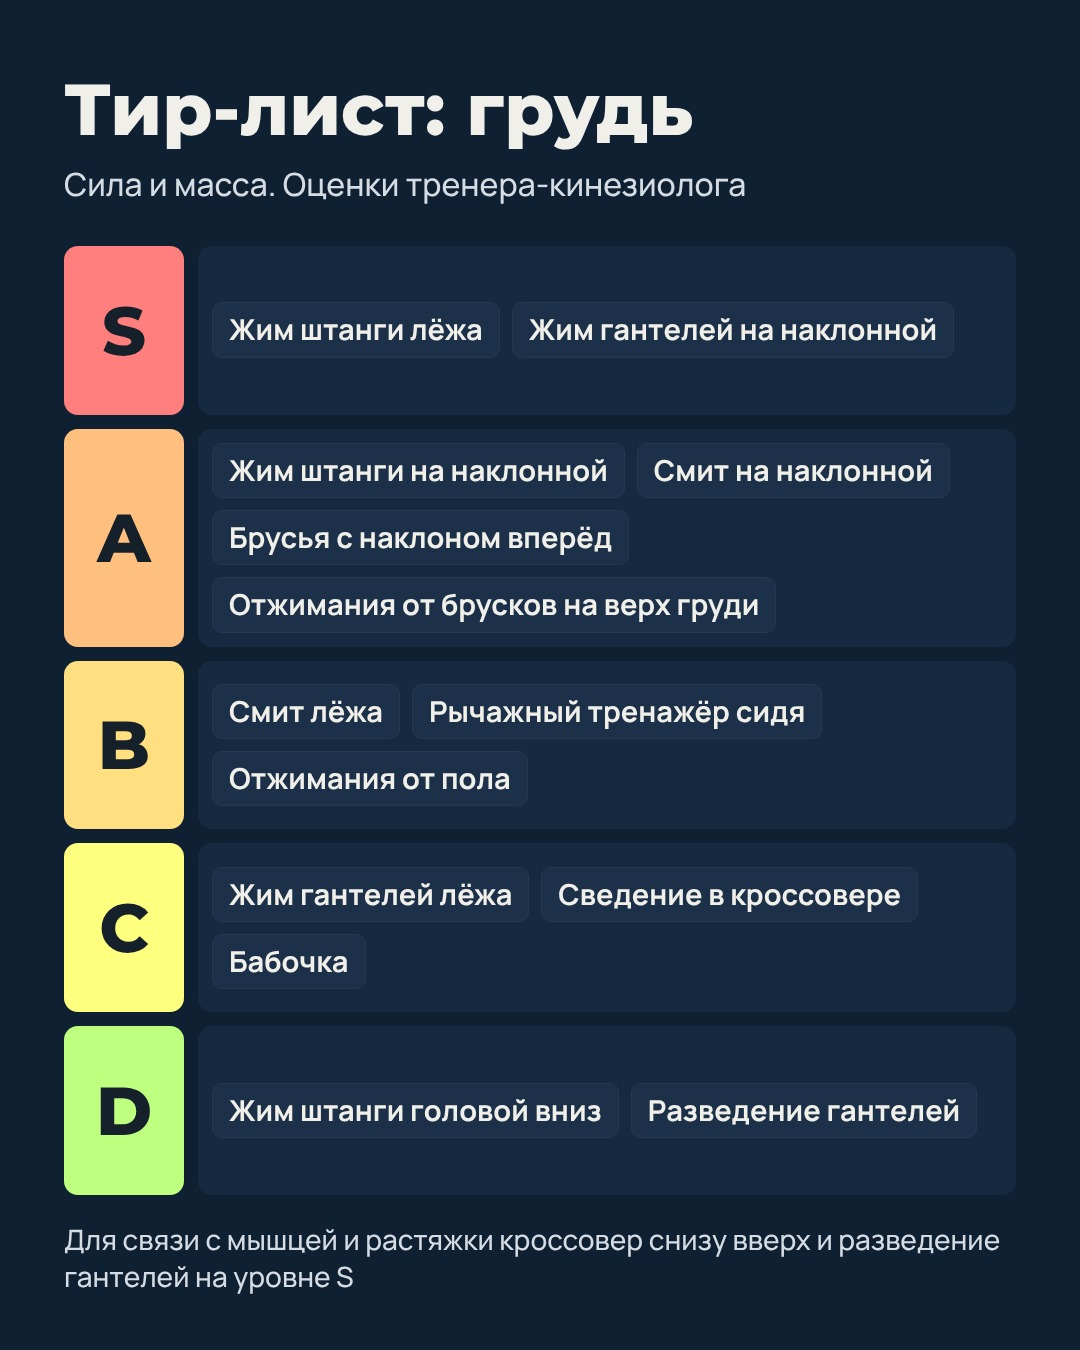
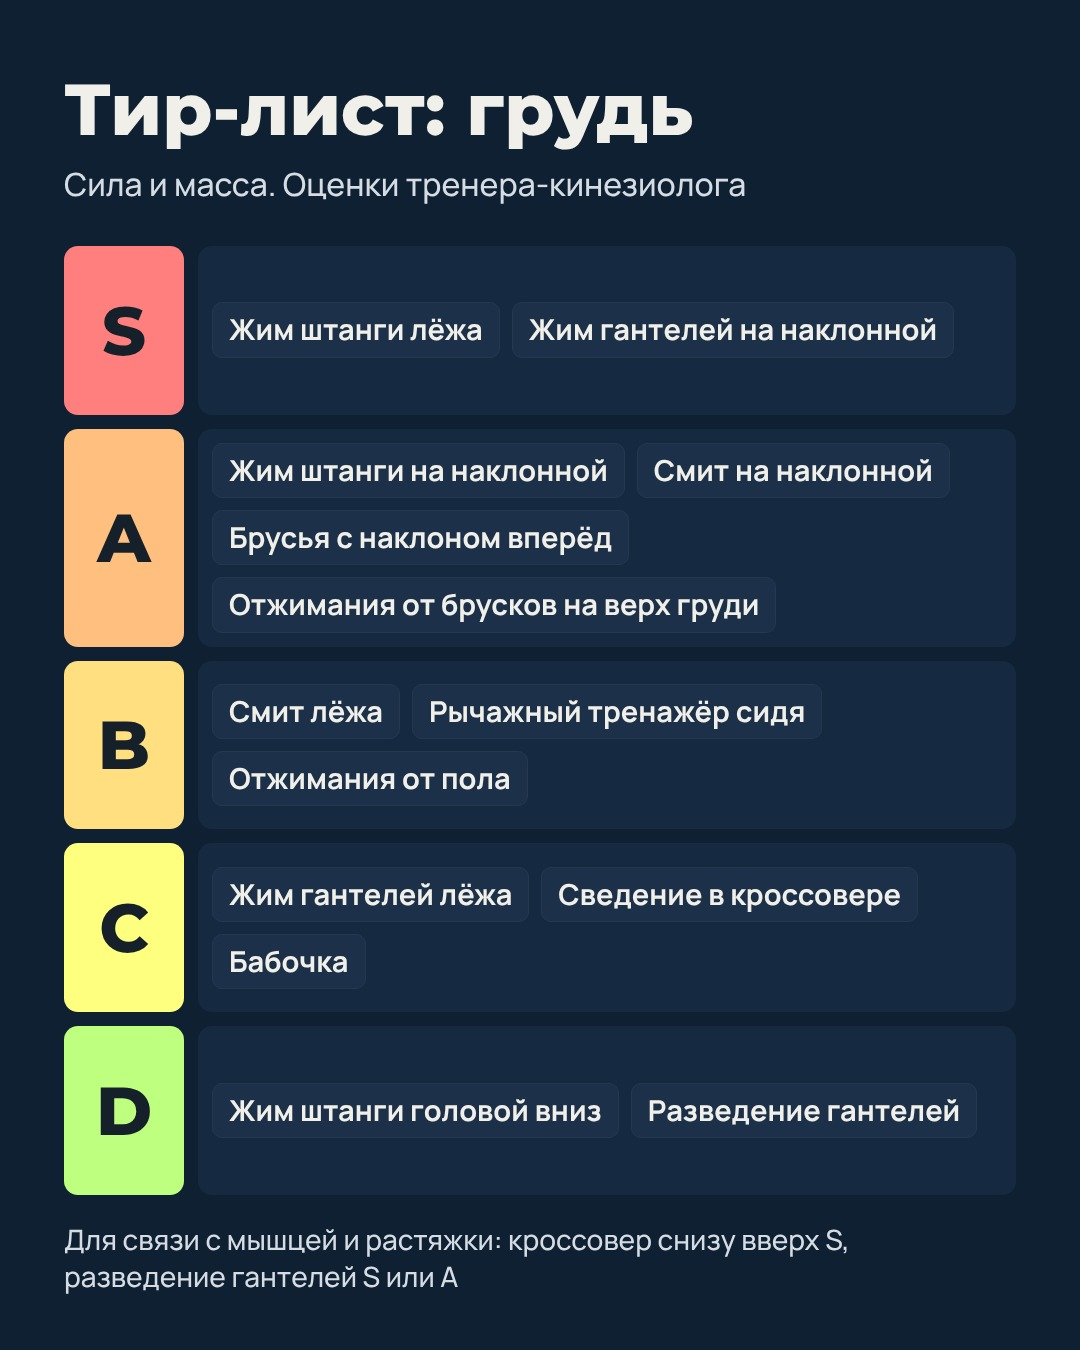
TG: тир-лист по замечаниям контролёра (S или A, причины C, полный список в комментарий)
Claude-Session: https://claude.ai/code/session_014b6iEBjPGyacsH4fnBbVwQ

Changed region(s): [[0.4583, 0.9022, 0.9167, 0.9333], [0.0611, 0.9333, 0.4278, 0.9644]]

diff --git a/content/tg/charts/04_tierlist_grud.html b/content/tg/charts/04_tierlist_grud.html
@@ -22,5 +22,5 @@ h1{font-family:Montserrat,sans-serif;font-weight:800;font-size:72px;line-height:
 <div class="row"><div class="lab" style="background:#ffff7f">C</div><div class="items"><span class="it">Жим гантелей лёжа</span><span class="it">Сведение в кроссовере</span><span class="it">Бабочка</span></div></div>
 <div class="row"><div class="lab" style="background:#bfff7f">D</div><div class="items"><span class="it">Жим штанги головой вниз</span><span class="it">Разведение гантелей</span></div></div>
 </div>
-<div class="note">Для связи с мышцей и растяжки кроссовер снизу вверх и разведение гантелей на уровне S</div>
+<div class="note">Для связи с мышцей и растяжки: кроссовер снизу вверх S, разведение гантелей S или A</div>
 </body></html>

diff --git a/content/tg/posts_01.py b/content/tg/posts_01.py
@@ -65,7 +65,7 @@ posts = {
 
 "04_tierlist_grud": """Тир-лист: упражнения на грудь
 
-Оценивал как жимовик и тренер: что даёт силу и массу груди. Вся таблица на картинке, здесь главное.
+Оценивал как жимовик и тренер: что даёт силу и массу груди. Полный список с причинами в комментариях.
 
 S. Жим штанги лёжа. Работает не только грудь, а весь верх тела.
 S. Жим гантелей на наклонной. Лучшее для верха груди: периодизацию можно строить, как в жиме лёжа, плюс работают стабилизаторы.
@@ -76,7 +76,7 @@ A. Смит на наклонной. Новичкам советую его, а 
 Внизу то, что многих удивит:
 C. Жим гантелей лёжа. Есть штанга, плюс только в стабилизаторах.
 D. Жим штанги головой вниз. Низ груди намного лучше работает на брусьях.
-D. Разведение гантелей для массы и силы. Зато для растяжки после жимов это S.
+D. Разведение гантелей для массы и силы. Зато для растяжки после жимов это S или A.
 
 Не чувствуешь верх груди? Начни со сведения в кроссовере снизу вверх, это лучшее для связи с мышцей. Потом переходи к жиму гантелей на наклонной.
 

diff --git a/.claude/MIKAEL_DICTIONARY.md b/.claude/MIKAEL_DICTIONARY.md
@@ -89,7 +89,7 @@
 | 29.10 | п.4 Давай список упр, сделаю тир лист | Оценки ставит сам, от нас нужен готовый список | Когда нужна его оценка, даём готовый список, где он только отмечает. Тир-лист: по одной группе мышц 10-12 упражнений из баз и самых частых в зале, пронумерованы, шкала S-A-B-C-D и критерий (безопасность для поясницы и плеч, перенос силы в базу). Он ставит букву у номера, можно голосом. Причины пишем мы по базам и показываем ему (формат догадка) |
 | 29.10 | п.5 Сценарий | На просьбу "короткое видео теста в твоём исполнении" ждёт от нас сценарий | Просьбу о видео не отправляем голой: сразу сценарий в формате shoot-director (ракурс, одежда, шаги теста, слова дословно, по какому признаку тест не пройден, 15-30 секунд, дубли), без монтажа |
 | 29.10 | п.6 (на вопрос про ExSport: комментарий эксперта к их новостям армрестлинга, реклама у них или ничего) Забудь. Не понял о чём ты. Нам не нужно полностью копировать. Просто понять суть: структура для каждого типа поста своя, но помимо этого, они должны быть живые | Каналы скидывал как образец подачи, а не как партнёров. Реклама и коллаборации не нужны, вопрос был непонятен (номер поста, спонсор). Из разбора ждал не таблицу приёмов со счётом постов, а суть: у каждого типа поста свой скелет, и при этом пост живой | Из чужих каналов выносим принципы, а не список к копированию. Дела с самим каналом не предлагаем, если не просил. Правило канала: у каждого типа поста (экспертный разбор, кейс, отчёт недели, викторина, тир-лист, самотест, вопрос-ответ, продающий) свой скелет, внутри живые детали. Продолжение правок про смайлы и v2: скелет держим, шаблонности нет |
-| 29.10 | Тир-лист груди голосом: оценки с рассуждениями, по ходу меняет решение ("второе, отмена"). "Ты, естественно, все это не пиши, просто мои мысли можешь схватить". "Можно даже несколько тир-листов: на гипертрофию, на силу, на растяжку" | Диктует длинно и вслух думает, итог по каждому пункту последний. Хочет, чтобы взяли суть, а не цитаты. Оценки зависят от цели | Из голосовых берём последнее решение по пункту, причины пересказываем коротко его мыслью, яркие образы ("ноги как две палочки") дословно не пишем. "С" в расшифровке может быть и S, и C: решаем по смыслу ("ближе к С" у лучшего упражнения значит S), сомнительное спрашиваем. Тир-листы делаем по цели: сила и масса отдельно от связи с мышцей и растяжки. Цифры из голосового с явной ошибкой ("наклон 70-45") уточняем |
+| 29.10 | Тир-лист груди голосом: оценки с рассуждениями, по ходу меняет решение ("второе, отмена"). "Ты, естественно, все это не пиши, просто мои мысли можешь схватить". "Можно даже несколько тир-листов: на гипертрофию, на силу, на растяжку" | Диктует длинно и вслух думает, итог по каждому пункту последний. Хочет, чтобы взяли суть, а не цитаты. Оценки зависят от цели | Из голосовых берём последнее решение по пункту, причины пересказываем коротко его мыслью, яркие образы ("ноги как две палочки") дословно не пишем. "С" в расшифровке может быть и S, и C: решаем по смыслу ("ближе к С" у лучшего упражнения значит S), сомнительное спрашиваем. Тир-листы можно делать по цели (его идея: сила и масса отдельно от связи с мышцей и растяжки), формат подачи уточняем. Цифры из голосового с явной ошибкой ("наклон 70-45") уточняем |
 | 23.10 | Я очень однообразно выражаюсь, может даже непонятно | Просит догадываться о смысле | Запросы сначала через request-interpreter |
 
 ## Что ему нравится

diff --git a/content/tg/TIERLIST_CHEST.md b/content/tg/TIERLIST_CHEST.md
@@ -17,8 +17,8 @@
 | B | Жим в рычажном тренажёре сидя | Хорошее упражнение, если тренажёр качественный |
 | B | Отжимания от пола | Можно всегда и везде. Для новичков, кто жмёт меньше 40 кг, отлично набирает силу |
 | C | Жим гантелей лёжа | Есть жим штанги лёжа. Плюс только в нагрузке на стабилизаторы |
-| C | Сведение рук в кроссовере | Для массы слабое |
-| C | Сведение в тренажёре "бабочка" | Для массы слабое |
+| C | Сведение рук в кроссовере | Хорошо как добивка и на растяжку, для массы есть лучше |
+| C | Сведение в тренажёре "бабочка" | Больше как разминка перед базой |
 | D | Жим штанги с наклоном вниз | Низ груди намного лучше работает на брусьях |
 | D | Разведение гантелей лёжа | Для массы и силы ничего не даёт |
 
